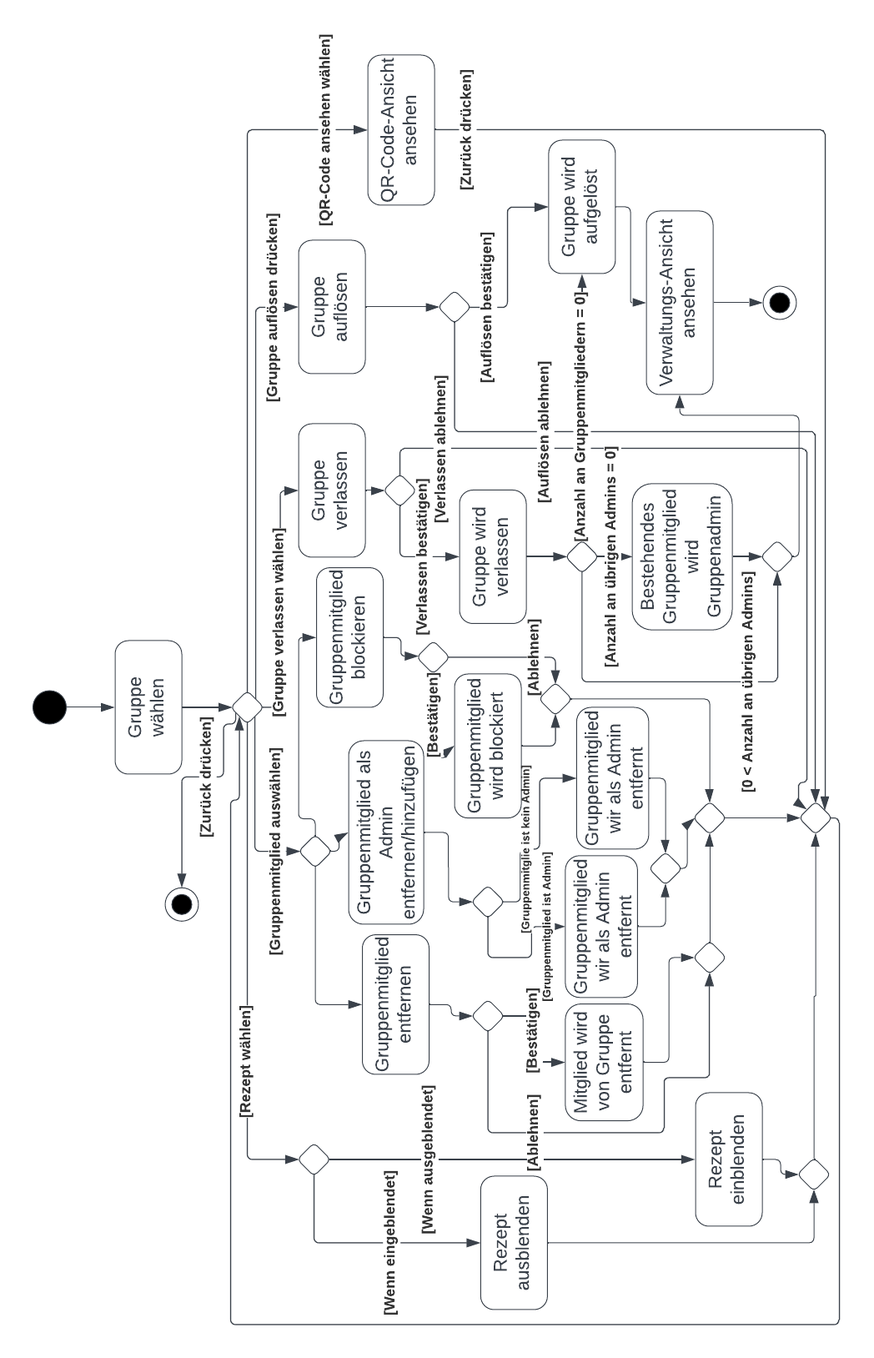
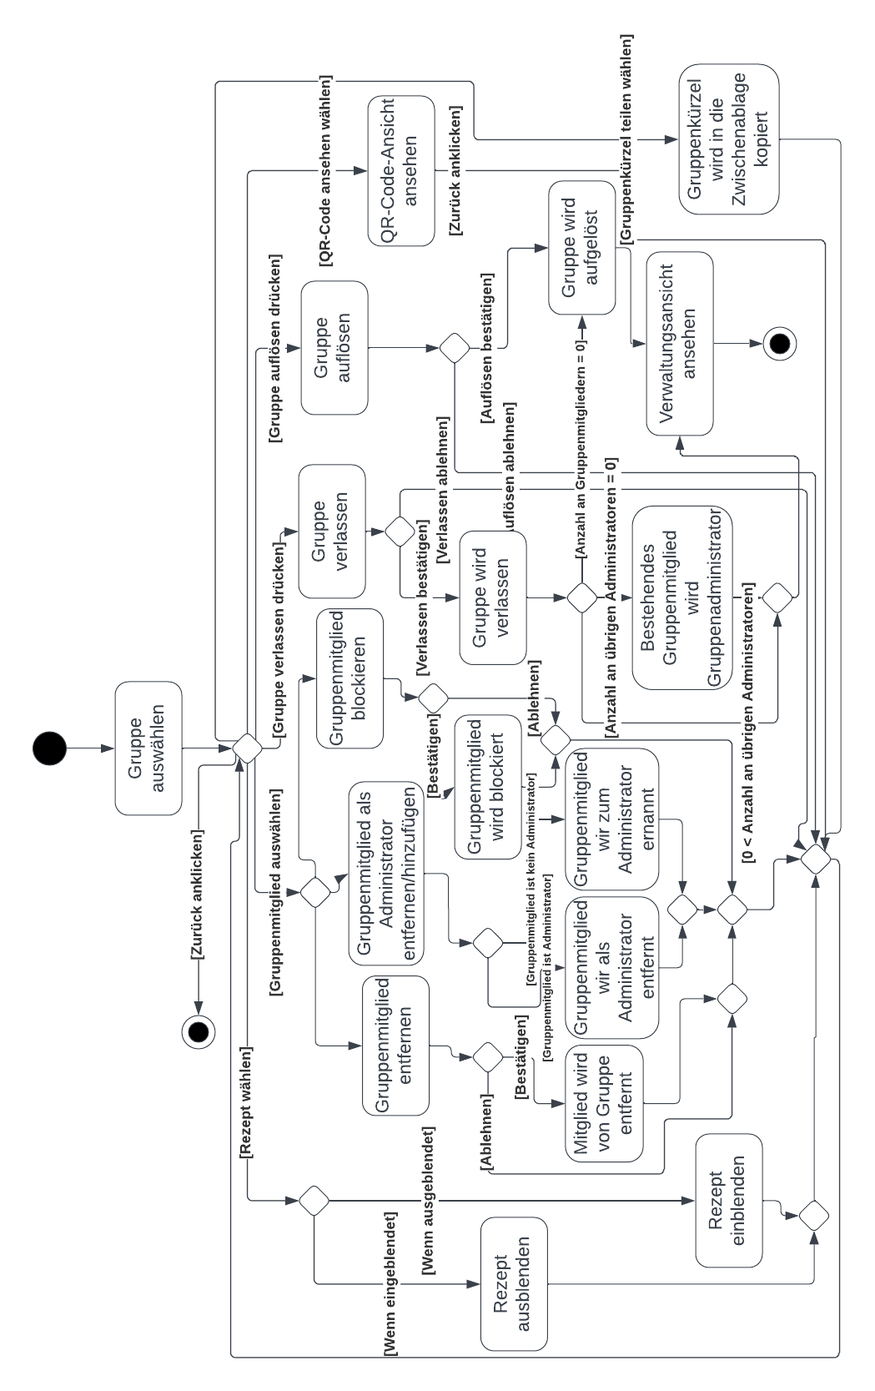
Update Produktübersicht & Notizen Freitag

diff --git a/pflichtenheft/pflichtenheft.tex b/pflichtenheft/pflichtenheft.tex
@@ -40,7 +40,6 @@
 \makeglossaries
 \renewcommand{\glossarysection}[2][]{}
 
-
 \begin{document}
 \include{glossary.tex}
 
@@ -72,6 +71,7 @@
 \end{titlepage}
 
 \tableofcontents
+\newpage
 
 \section*{Gender-Hinweis}
 Zur besseren Lesbarkeit wird in diesem Pflichtenheft das generische Maskulinum verwendet.
@@ -87,10 +87,10 @@ Musskriterien: unabdingbare Leistungen der Software.
     \item Der Nutzer muss sich registrieren, einloggen und ausloggen können.\label{RM2}
     \item Der Nutzer muss eine Gruppe erstellen und diese auch wieder auflösen können.\label{RM3}
     \item Der Nutzer muss Gruppen einer Gruppe mithilfe eines Gruppenkürzels beitreten können und diese danach auch wieder verlassen können.\label{RM4}
-    \item In jeder Gruppe muss mindestens ein Gruppenadministrator sein.\label{RM5}
+    \item In jeder Gruppe muss mindestens ein \Gls{administrator} sein.\label{RM5}
     \item Der Nutzer muss Rezepte erstellen und hochladen können.\label{RM6}
     \item Der Nutzer muss zu jedem Rezept den Rezepttitel, die Zubereitungsdauer, die Zutaten mit Mengenangaben, den Schwierigkeitsgrad, die Portionsanzahl und eine Zubereitungsanweisungen angeben können.\label{RM7}
-    \item Erstellte Rezepte müssen von anderen Nutzern in der gleichen Gruppe angeschaut werden können.\label{RM8}
+    \item Der Nutzer muss Rezepte von anderenen nutzern in der gleichen Gruppe anschauen können.\label{RM8}
     \item Erstellte Rezepte müssen vom Ersteller separat verwaltet, geändert und gelöscht werden können.\label{RM9}
     \item Jedes Gruppenmitglied muss das Gruppenkürzel einsehen können.\label{RM10}
 \end{enumerate}
@@ -101,13 +101,13 @@ Sollkriterien: erstrebenswerte Leistungen.
 \begin{enumerate}[start=1,label={$\langle$\bfseries RS\arabic*$\rangle$}, leftmargin = 5em, itemsep=4pt, parsep=4pt]
     \item Der Nutzer soll bei Rezepten Portionen skalieren können.\label{RS1}
     \item Der Nutzer soll Rezepte favorisieren können.\label{RS2}
-    \item Ein \Gls{administrator} soll weiter Gruppenmitglieder zum Administrator ernennen können und jenen auch den Adminstatus wieder entziehen können.\label{RS3}
-    \item Ein Admin soll Nutzer aus Gruppen kicken, bannen und auch wieder entbannen können.\label{RS4}
-    \item Ein Admin soll Rezepte von anderen Nutzern in der Gruppe ausblenden können.\label{RS5}
+    \item Ein Administrator soll weiter Gruppenmitglieder zum Administrator ernennen können und jenen auch den Adminstatus wieder entziehen können.\label{RS3}
+    \item Ein Administrator soll Nutzer aus Gruppen kicken und bannen können.\label{RS4}
+    \item Ein Administrator soll Rezepte von anderen Nutzern in der Gruppe ausblenden können.\label{RS5}
     \item Das Hinzufügedatum eines Rezeptes soll einsehbar sein.\label{RS7}
     \item Der Nutzer soll sein Passwort wieder zurücksetzen können.\label{RS8}
     \item Der Nutzer soll sein Konto nach erstellen wieder löschen können.\label{RS9}
-    \item Der Nutzer soll das Gruppenkürzel auch über einen QR-Code teilen können.\label{RS10}
+    \item Jedes Gruppenmitglied soll das Gruppenkürzel auch über einen QR-Code teilen können.\label{RS10}
     \item Der Nutzer soll seinen Benutzernamen ändern können.\label{RS11}
 \end{enumerate}
 
@@ -128,11 +128,11 @@ Kannkriterien: Leistungen, die enthalten sein können.
 Abgrenzungskriterien: Leistungen die explizit nicht umgesetzt werden.
 
 \begin{enumerate}[start=1,label={$\langle$\bfseries RW\arabic*$\rangle$}, leftmargin = 5em, itemsep=4pt, parsep=4pt]
-    \item Es können keine Kommentare zu Rezepten hinzugefügt werden.
+    \item Es gibt keine Möglichkeit Rezepte durch Kommentare zu
     \item Der Nutzer kann keine Rezepte bewerten.
     \item Es gibt keine integrierte Chatfunktion.
-    \item Es können keine Videos den Rezepten hinzugefügt werden.
-    \item Es können keine Nutzer direkt über die App gesucht werden.
+    \item Das Hinzufügen von Videos zu den Rezepten ist nicht
+    \item Über die App kann man keine anderen Nutzer direkt suchen.
     \item Es existiert kein Gruppenprofilbild.
     \item Der Nutzer kann nicht zwischen Dark Mode und Light Mode wechseln.
 \end{enumerate}
@@ -159,30 +159,35 @@ In diesem Unterkapitel wird auf die unterschiedlichen Bedürfnisse und Anforderu
 Um die volle Funktionsfähigkeit der App garantieren zu können, ist eine Internetverbindung erforderlich. Außerdem können QR-Codes für Gruppen nur mit einer funktionierenden Handykamera gescannt werden, auf die die App zugreifen kann.
 
 \section{Produktübersicht}
-In diesem Kapitel werden die Produktfunktionen beschrieben und in einem Use-Case-Diagramm visualisiert.
+In diesem Kapitel werden die Produktfunktionen beschrieben und in einem Use-Case-Diagramm "Aufbau der App" visualisiert.
 Das Use-Case-Diagramm zeigt mittels Verbindungslininen, wie die einzelnen Use-Cases zueinander stehen.
-Der Abschnitt Abbildung 3.2 und Abbildung 3.3 werden genauer in jeweils einem Aktivitätsdiagramm abgebildet.
+Die Hauptansicht wird genauer im Aktivitätsdiagramm "Hauptansicht" abgebildet.
+Die Gruppen-Detail-Ansicht als Administrator wird in einem weiteren Aktivitätsdiagramm "Gruppen-Detail-Ansicht als Administrator" dargestellt und erläutert.
 Dadurch können die einzelnen Schritte, die durchlaufen werden, besser beschrieben werden.\par
 
 
-\paragraph{Abbildung 3.1}
+\subsection*{Aufbau der App (Abbildung 3.1)}
 
-In dem Use-Case-Diagramm „Aufbau der App“ sieht man die allgemeine Struktur der App.
+In dem Use-Case-Diagramm „Aufbau der App“ sieht man die allgemeine Struktur der App. 
 
 Bei der erstmaligen Nutzung muss der Nutzer sich registrieren.
 Dazu muss er seinen Benutzernamen, seine E-Mail-Adresse und ein Passwort eingeben.
-Das Passwort muss durch eine erneute Eingabe berstätigt werden.
+Das Passwort muss durch eine erneute Eingabe bestätigt werden.
 Nach Bestätigung der Eingabe kann der Nutzer eine Gruppe erstellen, einer Gruppe beitreten oder diesen Punkt überspringen und erstmal keiner Gruppe beitreten.
-Durch Eingabe eines Gruppenkürzels oder durch scannen eines QR-Codes kann einer Gruppe beigetreten werden.
-Der Nutzer kann eine Gruppe durch Eingabe eines Gruppennamens erstellten.\par
+Durch das erstellen einer Gruppe wird man automatisch zum Administrator der Gruppe.
+Der Nutzer kann einer Grupppe durch Eingabe eines Gruppenkürzels oder durch scannen eines QR-Codes beitreten.
+Der Nutzer kann eine Gruppe durch Eingabe eines Gruppennamens erstellten.
+
 Falls der Nutzer schon ein Nutzerkonto besitzt kann er sich einloggen.
 Dazu muss er seine E-Mail-Adresse und sein Passwort eingeben.
 Hat der Nutzer sein Passwort vergessen besteht die Möglichkeit das Passwort zurückzusetzen.
-Ein eingeloggter Nutzer muss sich nicht erneut einloggen.\par
-Nach dem Einloggen gelangt der Nutzer auf die Haupt-Ansicht.
-Hier hat er die Möglichkeit, Rezepte zu filtern, suchen oder zu sortieren.
-Durch klicken auf ein Rezept kann der Nutzer das Rezept ansehen, favorisieren und die Portionsgrößen ändern.\par
-Durch klicken auf den Rezept-erstellen-Button kann der Nutzer ein neues Rezept erstellen.
+Ein eingeloggter Nutzer muss sich nicht erneut einloggen.\newline
+Nach dem Einloggen gelangt der Nutzer auf die Hauptansicht.
+Hier hat er die Möglichkeit, Rezepte zu filtern, favorisieren, suchen oder zu sortieren.
+Durch klicken auf ein Rezept gelangt der Nutzer auf der Rezeptansicht.
+Die Rezeptansicht wird unter dem Aktivitätsdiagramm "Hauptansicht" (Abbildung 3.2) noch genauer beschrieben.
+Durch klicken auf den Rezept-erstellen-Button gelangt der Nutzer auf der Rezept-Erstellungs-Ansicht.
+Hier kann der Nutzer ein neues Rezept erstellen.
 Es können Zutaten, Zubereitungsanweisung, Schwierigkeitgrad und Kochzeit ƒür das neue Rezept angegeben werden.
 Im Anschluss kann das Rezept veröffentlicht werden.\par
 Durch klicken auf den Verwaltungs-Ansicht-Button
@@ -192,28 +197,47 @@ erstellte Rezepte bearbeiten, eine Gruppe verlassen und Gruppen-Kürzel oder Gru
 Durch das Drücken des Gruppen-hinzufügen-Button kann der Nutzer eine neue Gruppe erstellen oder beitreten.
 Von der Verwaltungs-Ansicht kommt der Nutzer durch klicken auf eine Gruppe auf die Gruppen-Detail-Ansicht.
 Eingeloggte Nutzer können hier Gruppenmitglieder und Rezepte von Gruppenmitgliedern einsehen, die Gruppe verlassen oder den QR-Code zum beitreten der Gruppe einsehen.
+Durch das klicken auf die Rezepte gelangt der Nutzer auf die Rezeptansicht des dazugehörigen Rezepts.
 Gruppenadministratoren können in dieser Ansicht Gruppenmitglieder entfernen, bannen, zum Administrator ernennen, als Administrator entfernen, Rezepte von Gruppenmitgliedern für die Gruppe ausblenden oder die Gruppe auflösen.\par
 
 
-\paragraph{Abbildung 3.2}
+\subsection*{Hauptansicht (Abbildung 3.2)}
 
-Im Aktivitätsdiagramm „Haupt-Ansicht“ werden die verschiedenen Möglichkeiten unter dem Menüpunkt Haupt-Ansicht aufgeführt.
+Im Aktivitätsdiagramm „Hauptansicht“
+werden die verschiedenen Möglichkeiten unter dem Menüpunkt Hauptansicht aufgeführt.
+
 Der Nutzer hat die Möglichkeit Rezepte durch eine Suchfeld zu suchen.
-Der Nutzer hat die Möglichkeit die Rezepteliste durch vorgegebene Sortierungen zu sortieren oder nach Filterkriterien zu filtern.
+Der Nutzer hat die Möglichkeit die Liste durch vorgegebene Sortierungen zu sortieren oder nach Filterkriterien zu filtern.
 Vorgegeben Sortierungen sind auf- oder absteigend Alpahbetisch nach Namen des Rezepts, nach dem Schwierigkeitsgrad und nach dem Hinzufügedatum.
-Die Rezeptliste lässt sich nach Favoriten oder Schwierigkeitsgrad filtern.
-Beim Auswählen eines Rezepts öffnet sich die dazugehörige Rezept-Ansicht.
-In der Rezept-Ansicht kann der Nutzer die Portionsgröße anpassen und das Rezept fovorisieren.
-Mit dem Zurück-Button gelangt der Nutzer wieder auf der Haupt-Ansicht.\par
+Die Liste lässt sich nach Favoriten oder Schwierigkeitsgrad filtern.
+Es besteht zudem die Möglichkeit Rezepte schon in dieser Ansicht zu favorisieren.\newline
+Beim Auswählen eines Rezepts öffnet sich die dazugehörige Rezeptansicht.
+In dieser Ansicht kann der Nutzer das Rezept ansehen, favorisieren und die Portionsgrößen ändern.
+Es besteht zudem die Möglichkeit Rezepte zu melden.
+Ist der Nutzer der Ersteller des Rezept hat er zudem die Möglichkeit das Rezept zu bearbeiten.
+Wird ein Rezept gemeldet, so werden die Administratoren mit einer E-Mail auf die Meldung benachrichtigt.\newline
+Es be
+Durch klicken auf zurück gelangt der Nutzer wieder auf der Hauptansicht.\par
 
 
-\paragraph{Abbildung 3.3}
+\subsection*{Gruppen-Detail-Ansicht als Administrator (Abbildung 3.3)}
 
-Im Aktivitätsdiagramm "Verwaltung als Administrator" wir gezeigt, welche Möglichkeiten der Nutzer als Administrator einer Gruppe in der "Gruppen-Ansicht" hat.
-Der Administrator muss in der Verwaltungs-Ansicht die Gruppe wählen in der er Gruppenadmin ist.
+Im Aktivitätsdiagramm "Gruppen-Detail-Ansicht als Administrator" wir gezeigt, welche Möglichkeiten der Nutzer als Administrator einer Gruppe in der "Gruppen-Detail-Ansicht" hat.
+
+Der Administrator muss in der Verwaltungsansicht die Gruppe wählen in der er Gruppenadministrator ist.
 Der Administrator landet so in der Gruppen-Detail-Ansicht.
-Durch klicken auf ein Rezept kann der Gruppenadmin, eingeblendete Rezepte ausblenden und ausgeblendete Rezepte einblenden.
-Beim Auswählen von Gruppenmitgliedern hat gibt es die Möglichkeit das Gruppenmitglied zu entfernen oder zu bannen, beides muss jeweils nochmal (...)
+Durch klicken auf ein Rezept kann der Gruppenadministrator, eingeblendete Rezepte ausblenden und ausgeblendete Rezepte einblenden.\newline
+Beim Auswählen von Gruppenmitgliedern gibt es die Möglichkeit das Gruppenmitglied zu entfernen oder zu bannen.
+Der Administrator muss die jeweilige Aktion nachträglich nochmal bestätigen.
+Ein entfernter Nutzer kann der Gruppe wieder beitreten wohingegen ein gebannter Nutzer der Gruppe unwiderruflich nicht mehr beitreten kann.
+Ein Administrator kann ein Gruppenmitglied zu einem Administrator ernennen
+Ein Administrator kann einen anderen Administrator als Administrator entfernen.
+
+Der Administrator einer Gruppe kann durch eine nachfolgende Bestätigung die Gruppe verlassen.
+Ist anschließend kein weiteres Mitglied mehr in der Gruppe wird die Gruppe aufgelöst. Ein Nutzer kann der Gruppe anschließend nicht mehr beitreten.
+Falls es keinen Administrator mehr in der Gruppe gibt, wird der Nutzer, der nach dem Administrator die Gruppe beigetreten ist und noch in der Gruppe ist, zum neuen Administrator.
+Ein Administrator kann eine Gruppe durch eine nachfolgende Bestätigung auflösen. Ein Nutzer kann der Gruppe anschließend nicht mehr beitreten.\newline
+Der Administrator kann das Gruppenkürzel durch "Gruppenkürzel kopieren" in die Zwischenablage kopieren. Der Administrator kann den QR-Code der Gruppe durch "QR-Code anzeigen" anschauen.
 \newpage
 
 \begin{figure}[!htp]
@@ -229,7 +253,7 @@ Beim Auswählen von Gruppenmitgliedern hat gibt es die Möglichkeit das Gruppenm
 \begin{figure}[!htp]
     \centering
     \includegraphics{images/section3/ActivityDiagramRecipeList.png}
-    Abbildung 3.2: Aktivitätsdiagramm: Haupt-Ansicht
+    Abbildung 3.2: Aktivitätsdiagramm: Hauptansicht
     \label{fig:A32}
 \end{figure}
 \newpage
@@ -239,7 +263,7 @@ Beim Auswählen von Gruppenmitgliedern hat gibt es die Möglichkeit das Gruppenm
     \begin{adjustbox}{right=150mm}
         \includegraphics[height=230mm]{images/section3/ActivityDiagramGroupSettings.png}
     \end{adjustbox}
-    Abbildung 3.3: Aktivitätsdiagramm: Verwaltung als Administrator
+    Abbildung 3.3: Aktivitätsdiagramm: Gruppen-Detail-Ansicht als Administrator
     \label{fig:A33}
 \end{figure}
 \newpage
@@ -293,6 +317,7 @@ Die Zutaten können mit einem Klick auf das Plus-Symbol hinzugefügt werden. Daz
 \paragraph{Zutaten-Auswahl-Ansicht:}
 \label{ui:IngredientPickerView}
 In dieser Ansicht (\autoref{fig:IngredientPickerView}) kann der Nutzer Zutaten erstellen. Dazu schreibt er den Namen der Zutat in das Eingabefeld und wählt Einheit und Menge aus. Während der Nutzer die Zutat eingibt sollen automatisch Zutaten gesucht werden, die zum bisher geschriebenen Text passen und als Vorschlag unter dem Eingabefeld angezeigt werden. Durch Klick auf so einen Vorschlag wird der Zutatenname auf diesen Vorschlag gesetzt. Der Nutzer hat außerdem die Möglichkeit ein Icon für die Zutat aus einem Dropdownmenü zu wählen. Durch den Hinzufügen-Button gelangt der Nutzer zurück zur Rezepterstellenansicht \ref{ui:RecipeCreationView}, wo die Zutat hinzugefügt wurde.
+In dieser Ansicht (\autoref{fig:IngredientPickerView}) kann der Nutzer Zutaten erstellen. Dazu schreibt er den Namen der Zutat in das Eingabefeld und wählt Einheit und Menge aus. Während der Nutzer die Zutat eingibt sollen automatisch Zutaten gesucht werden, die zum bisher geschriebenen Text passen und als Vorschlag unter dem Eingabefeld angezeigt werden. Durch Klick auf so einen Vorschlag wird der Zutatenname auf diesen Vorschlag gesetzt. Der Nutzer hat außerdem die Möglichkeit ein Icon für die Zutat aus einem Dropdownmenü zu wählen. Durch den Hinzufügen-Button gelangt der Nutzer zurück zur Rezepterstellenansicht \ref{ui:RecipeCreationView}, wo die Zutat hinzugefügt wurde.
 
 \paragraph{Verwaltungsansicht:}
 \label{ui:SettingsView}
@@ -307,6 +332,7 @@ In der Gruppen-Detail-Ansicht (\autoref{fig:GroupDetailView}) kann der Nutzer di
 \paragraph{QR-Code-Ansicht:}
 \label{ui:QRCodeView}
 In der QR-Code-Ansicht (\autoref{fig:QRCodeView}) wird der QR-Code einer Gruppe angezeigt. Durch den Zurück-Button kommt der Nutzer zurück zur Gruppen-Detail-Ansicht (\ref{ui:GroupDetailView}). Auch hier gibt es wieder die Navigationsleiste aus \ref{ui:MainView}.
+\newpage
 \newpage
 \subsection*{Abbildungen}
 \begin{figure}[htp]
@@ -426,7 +452,7 @@ In der QR-Code-Ansicht (\autoref{fig:QRCodeView}) wird der QR-Code einer Gruppe 
     \item Der Nutzer gibt seinen Nutzernamen ein.
     \item Der Nutzer gibt sein Passwort ein.
     \item Der Nutzer klickt auf den Weiter-Button, um die Anmeldung abzuschließen.
-    \item Der Nutzer klickt auf den Verwaltungs-Ansichts-Button.
+    \item Der Nutzer klickt auf den Verwaltungsansichts-Button.
     \item Der Nutzer Klick auf den ausloggen-Button.
     \item Der Nutzer wird zur Login-Ansicht weitergeleitet
 \end{enumerate}
@@ -454,8 +480,8 @@ In der QR-Code-Ansicht (\autoref{fig:QRCodeView}) wird der QR-Code einer Gruppe 
     \item Der Nutzer klickt auf den Weiter-Button.
     \item Der Nutzer wird in die Gruppen-Beitritts-Ansicht weitergeleitet.
     \item Der Nutzer klickt auf den Überspringen-Button.
-    \item Der Nutzer wird zur Haupt-Ansicht weitergeleitet.
-    \item Der Nutzer klickt auf den Verwaltungs-Ansichts-Button.
+    \item Der Nutzer wird zur Hauptansicht weitergeleitet.
+    \item Der Nutzer klickt auf den Verwaltungsansichts-Button.
     \item Der Nutzer klickt auf den Konto-Löschen-Button.
     \item Ein Pop-up-Fenster erscheint zur Bestätigung zum Löschen des Benutzerkonto löschen.
     \item Der Nutzer klickt auf den Bestätigen-Button.
@@ -495,10 +521,10 @@ In der QR-Code-Ansicht (\autoref{fig:QRCodeView}) wird der QR-Code einer Gruppe 
 \textbf{Nachbedingung Erfolg:} Der aktualisierte Nutzername und das aktualisierte Profilbild wird anderen Nutzern angezeigt.\\
 \textbf{Nachbedingung Fehlschlag:} Ein Pop-up-Fenster erscheint mit einer Fehlermeldung.\\
 \textbf{Akteure:} Nutzer\\
-\textbf{Auslösendes Ereignis:} Der Nutzer klickt auf den Button für die Verwaltungs-Ansicht.\\
+\textbf{Auslösendes Ereignis:} Der Nutzer klickt auf den Button für die Verwaltungsansicht.\\
 \textbf{Beschreibung:}
 \begin{enumerate}
-    \item Der Nutzer klickt auf den Button für die Verwaltungs-Ansicht.
+    \item Der Nutzer klickt auf den Button für die Verwaltungsansicht.
     \item Der Nutzer klickt auf den Nutzernamen bearbeiten Button.
     \item Der neue Benutzername wird eingegeben.
     \item Der Nutzer klickt auf den speichern Button.
@@ -506,7 +532,7 @@ In der QR-Code-Ansicht (\autoref{fig:QRCodeView}) wird der QR-Code einer Gruppe 
     \item Der Nutzer kann mit Hilfe des betriebssystemeigenen Dateimanagers ein neues Profilbild aussehen.
 \end{enumerate}
 \textbf{Erweiterung:} -\\
-\textbf{Alternativen:} Der Nutzer kann auch sein Profilbild komplett entfernen. Auch kann der Nutzer auf den Exit Button klicken und der Prozess wird abgebrochen und der Nutzer gelangt zurück zur Verwaltungs-Ansicht.\\
+\textbf{Alternativen:} Der Nutzer kann auch sein Profilbild komplett entfernen. Auch kann der Nutzer auf den Exit Button klicken und der Prozess wird abgebrochen und der Nutzer gelangt zurück zur Verwaltungsansicht.\\
 \newpage
 
 
@@ -516,17 +542,17 @@ In der QR-Code-Ansicht (\autoref{fig:QRCodeView}) wird der QR-Code einer Gruppe 
 \textbf{Anforderungen:} \ref{RM6}, \ref{RM7}, \ref{RM9}, \ref{RC2}, \ref{RC3}\\
 \textbf{Ziel:} Der Nutzer erstellt ein Rezept, welches er mit seinen Gruppen teilen möchte, oder auch nur für sich sichtbar macht. Nimmt dann Änderungen vor, um es dann wieder zu löschen.\\
 \textbf{Vorbedingung:} -\\
-\textbf{Nachbedingung Erfolg:} Das erstellte und geänderte Rezept wird in der Verwaltungs-Ansicht nicht mehr angezeigt.  \\
+\textbf{Nachbedingung Erfolg:} Das erstellte und geänderte Rezept wird in der Verwaltungsansicht nicht mehr angezeigt.  \\
 \textbf{Nachbedingung Fehlschlag:} Ein Pop-up-Fenster erscheint mit einer Fehlermeldung.\\
 \textbf{Akteure:} Nutzer\\
-\textbf{Auslösendes Ereignis:} In der Haupt-Ansicht klickt der Nutzer auf den neues-Rezept -anlegen-Button.\\
+\textbf{Auslösendes Ereignis:} In der Hauptansicht klickt der Nutzer auf den neues-Rezept -anlegen-Button.\\
 \textbf{Beschreibung:}
 \begin{enumerate}
     \item Der Nutzer klickt auf den Button für ein neues Rezept.
     \item Der Nutzer gib den Rezepttitel, die Zubereitungsdauer, die Zutaten mit Mengenangaben, den Schwierigkeitsgrad, die Portionsanzahl und eine Zubereitungsanweisungen an.
     \item Der Nutzer klickt auf den speichern Button.
-    \item Der Nutzer wird zur Haupt-Ansicht weitergeleitet.
-    \item Der Nutzer klickt auf den Verwaltungs-Ansicht Button.
+    \item Der Nutzer wird zur Hauptansicht weitergeleitet.
+    \item Der Nutzer klickt auf den Verwaltungsansicht Button.
     \item Der Nutzer klickt auf das gerade erstellte Rezept.
     \item Der Nutzer wird zur Rezept-Erstellungs-Ansicht weitegeleitet.
     \item Der Nutzer ändert den Rezepttitel.
@@ -550,7 +576,7 @@ In der QR-Code-Ansicht (\autoref{fig:QRCodeView}) wird der QR-Code einer Gruppe 
 \textbf{Nachbedingung Erfolg:} Das Rezept favorisierte Rezept ist mit den anderen favorisierten Rezepten beim Filter favorisierte Rezepte auffindbar.\\
 \textbf{Nachbedingung Fehlschlag:} Ein Pop-up-Fenster erscheint mit einer Fehlermeldung.\\
 \textbf{Akteure:} Nutzer\\
-\textbf{Auslösendes Ereignis:} Klick auf die Suchzeile in der Haupt-Ansicht.\\
+\textbf{Auslösendes Ereignis:} Klick auf die Suchzeile in der Hauptansicht.\\
 \textbf{Beschreibung:}
 \begin{enumerate}
     \item Der Nutzer klickt auf die Suchzeile.
@@ -558,7 +584,7 @@ In der QR-Code-Ansicht (\autoref{fig:QRCodeView}) wird der QR-Code einer Gruppe 
     \item Der Nutzer klickt auf den Sortierungs-methode-Button und wählt Hinzufügedatum aus.
     \item Der Nutzer klickt auf den Filtern-nach-Button und wählt Schwierigkeitsgrad Mittel.
     \item Der Nutzer klickt auf ein Rezept.
-    \item Der Nutzer wird zur Rezept-Ansicht weitergeleitet.
+    \item Der Nutzer wird zur Rezeptansicht weitergeleitet.
     \item Der Nutzer skaliert das Rezept auf eine Person.
     \item Der Nutzer klickt auf den Favoriten-Button.
 \end{enumerate}
@@ -582,12 +608,12 @@ In der QR-Code-Ansicht (\autoref{fig:QRCodeView}) wird der QR-Code einer Gruppe 
     \item Der Nutzer wird zur Gruppen-Erstellungs-Ansicht weitergeleitet.
     \item Der Nutzer gibt den Gruppennamen ein.
     \item Der Nutzer klickt auf den speichern Button.
-    \item Der Nutzer wird zur Verwaltungs-Ansicht zurückgeleitet.
+    \item Der Nutzer wird zur Verwaltungsansicht zurückgeleitet.
     \item Der Nutzer klickt auf die Gruppe und wird zur Gruppen-Detail-Ansicht weitergeleitet.
     \item Der Nutzer klickt auf den Gruppen-auflösen-Button.
     \item Ein Pop-up-Fenster erscheint, welches um Bestätigung bitten.
     \item Der Nutzer klickt auf den Button zum Bestätigen.
-    \item Der Nutzer wird zur Verwaltungs-Ansicht weitergeleitet.
+    \item Der Nutzer wird zur Verwaltungsansicht weitergeleitet.
 \end{enumerate}
 \textbf{Erweiterung:} -\\
 \textbf{Alternativen:} Mit dem Gruppe-beitreten-Button kann auch zur Gruppen-Erstellungs-Ansicht gelangt werden.
@@ -596,9 +622,9 @@ In der QR-Code-Ansicht (\autoref{fig:QRCodeView}) wird der QR-Code einer Gruppe 
 \textbf{Gruppe beitreten und verlassen $\langle$F100$\rangle$}\\
 \textbf{Anwendungsfall:} Der Nutzer möchte einer neuen Gruppe beitreten und diese danach verlassen.\\
 \textbf{Anforderungen:} \ref{RM4} \\
-\textbf{Ziel:} Der Nutzer ist der Gruppe beigetreten und kann alle in der Gruppe geteilten Rezepte ansehen und diese auch wieder verlassen, sodass in der Haupt-Ansicht die Rezepte nicht mehr angezeigt werden.\\
+\textbf{Ziel:} Der Nutzer ist der Gruppe beigetreten und kann alle in der Gruppe geteilten Rezepte ansehen und diese auch wieder verlassen, sodass in der Hauptansicht die Rezepte nicht mehr angezeigt werden.\\
 \textbf{Vorbedingung:} -\\
-\textbf{Nachbedingung Erfolg:} Die beigetretene Gruppe wird nicht mehr in der Verwaltung-Ansicht angezeigt und die Rezepte der Gruppe werden nicht mehr in der Haupt-Ansicht angezeigt.\\
+\textbf{Nachbedingung Erfolg:} Die beigetretene Gruppe wird nicht mehr in der Verwaltung-Ansicht angezeigt und die Rezepte der Gruppe werden nicht mehr in der Hauptansicht angezeigt.\\
 \textbf{Nachbedingung Fehlschlag:} Ein Pop-up-Fenster erscheint mit einer Fehlermeldung.\\
 \textbf{Akteure:} Nutzer\\
 \textbf{Auslösendes Ereignis:} Klick auf den Gruppe-beitreten Button.\\
@@ -611,7 +637,7 @@ In der QR-Code-Ansicht (\autoref{fig:QRCodeView}) wird der QR-Code einer Gruppe 
     \item Der Nutzer klickt auf den Gruppe-verlassen Button.
     \item Ein Pop-up-Fenster erscheint, welches um Bestätigung bitten.
     \item Der Nutzer klickt auf den Button zum Bestätigen.
-    \item der Nutzer wird zur Verwaltungs-Ansicht weitergeleitet.
+    \item der Nutzer wird zur Verwaltungsansicht weitergeleitet.
 \end{enumerate}
 \textbf{Erweiterung:} Mit dem Scannen eines QR-Codes kann auch einer Gruppe beigetreten werden ohne die Eingabe eines Gruppennamens.\\
 \textbf{Alternativen:} Nach dem Login-Ansicht wird man zur Gruppe-beitreten-Ansicht weitergeleitet, wodurch auch einer Gruppe beigetreten werden kann.
@@ -625,7 +651,7 @@ In der QR-Code-Ansicht (\autoref{fig:QRCodeView}) wird der QR-Code einer Gruppe 
 \textbf{Nachbedingung Erfolg:} Ein Pop-up-Fenster erscheint mit den Daten der Gruppe.\\
 \textbf{Nachbedingung Fehlschlag:} Ein Pop-up-Fenster erscheint mit einer Fehlermeldung.\\
 \textbf{Akteure:} Nutzer\\
-\textbf{Auslösendes Ereignis:} Der Nutzer klickt in der Verwaltungs-Ansicht auf die Gruppe und wird zur Gruppen-Detail-Ansicht weitergeleitet.\\
+\textbf{Auslösendes Ereignis:} Der Nutzer klickt in der Verwaltungsansicht auf die Gruppe und wird zur Gruppen-Detail-Ansicht weitergeleitet.\\
 \textbf{Beschreibung:}
 \begin{enumerate}
     \item Der Nutzer klickt auf die Gruppen-Detail-Ansicht-Button.
@@ -660,6 +686,7 @@ In der QR-Code-Ansicht (\autoref{fig:QRCodeView}) wird der QR-Code einer Gruppe 
 \textbf{Alternativen:} -
 \newpage
 
+%Todo entbannen noch aktuell oder entfernen?
 \textbf{Nutzer kicken und Nutzer bannen $\langle$F150$\rangle$}\\
 \textbf{Anwendungsfall:} Ein Administrator möchte ein Mitglied der Gruppe aus der Gruppe kicken und ein anderes Mitglied aus der Gruppe bannen und danach wieder entbannen.\\
 \textbf{Anforderungen:} \ref{RS4}\\
@@ -867,8 +894,10 @@ In diesem Kapitel wird die technische Umgebung des Produktes beschrieben.
     \item Standard Smartphone mit Android Betriebssystem
 \end{itemize}
 
+%Todo Produktumgebung weiter ausführen
 \subsection{Produktschnittstellen}
 Die Benutzerschnittstelle wird über ein GUI zur Verfügung gestellt.
+Das Scannen von QR-Codes ist durch die Smartphone-Kamera möglich.
 \newpage
 
 \section{Glossar}
